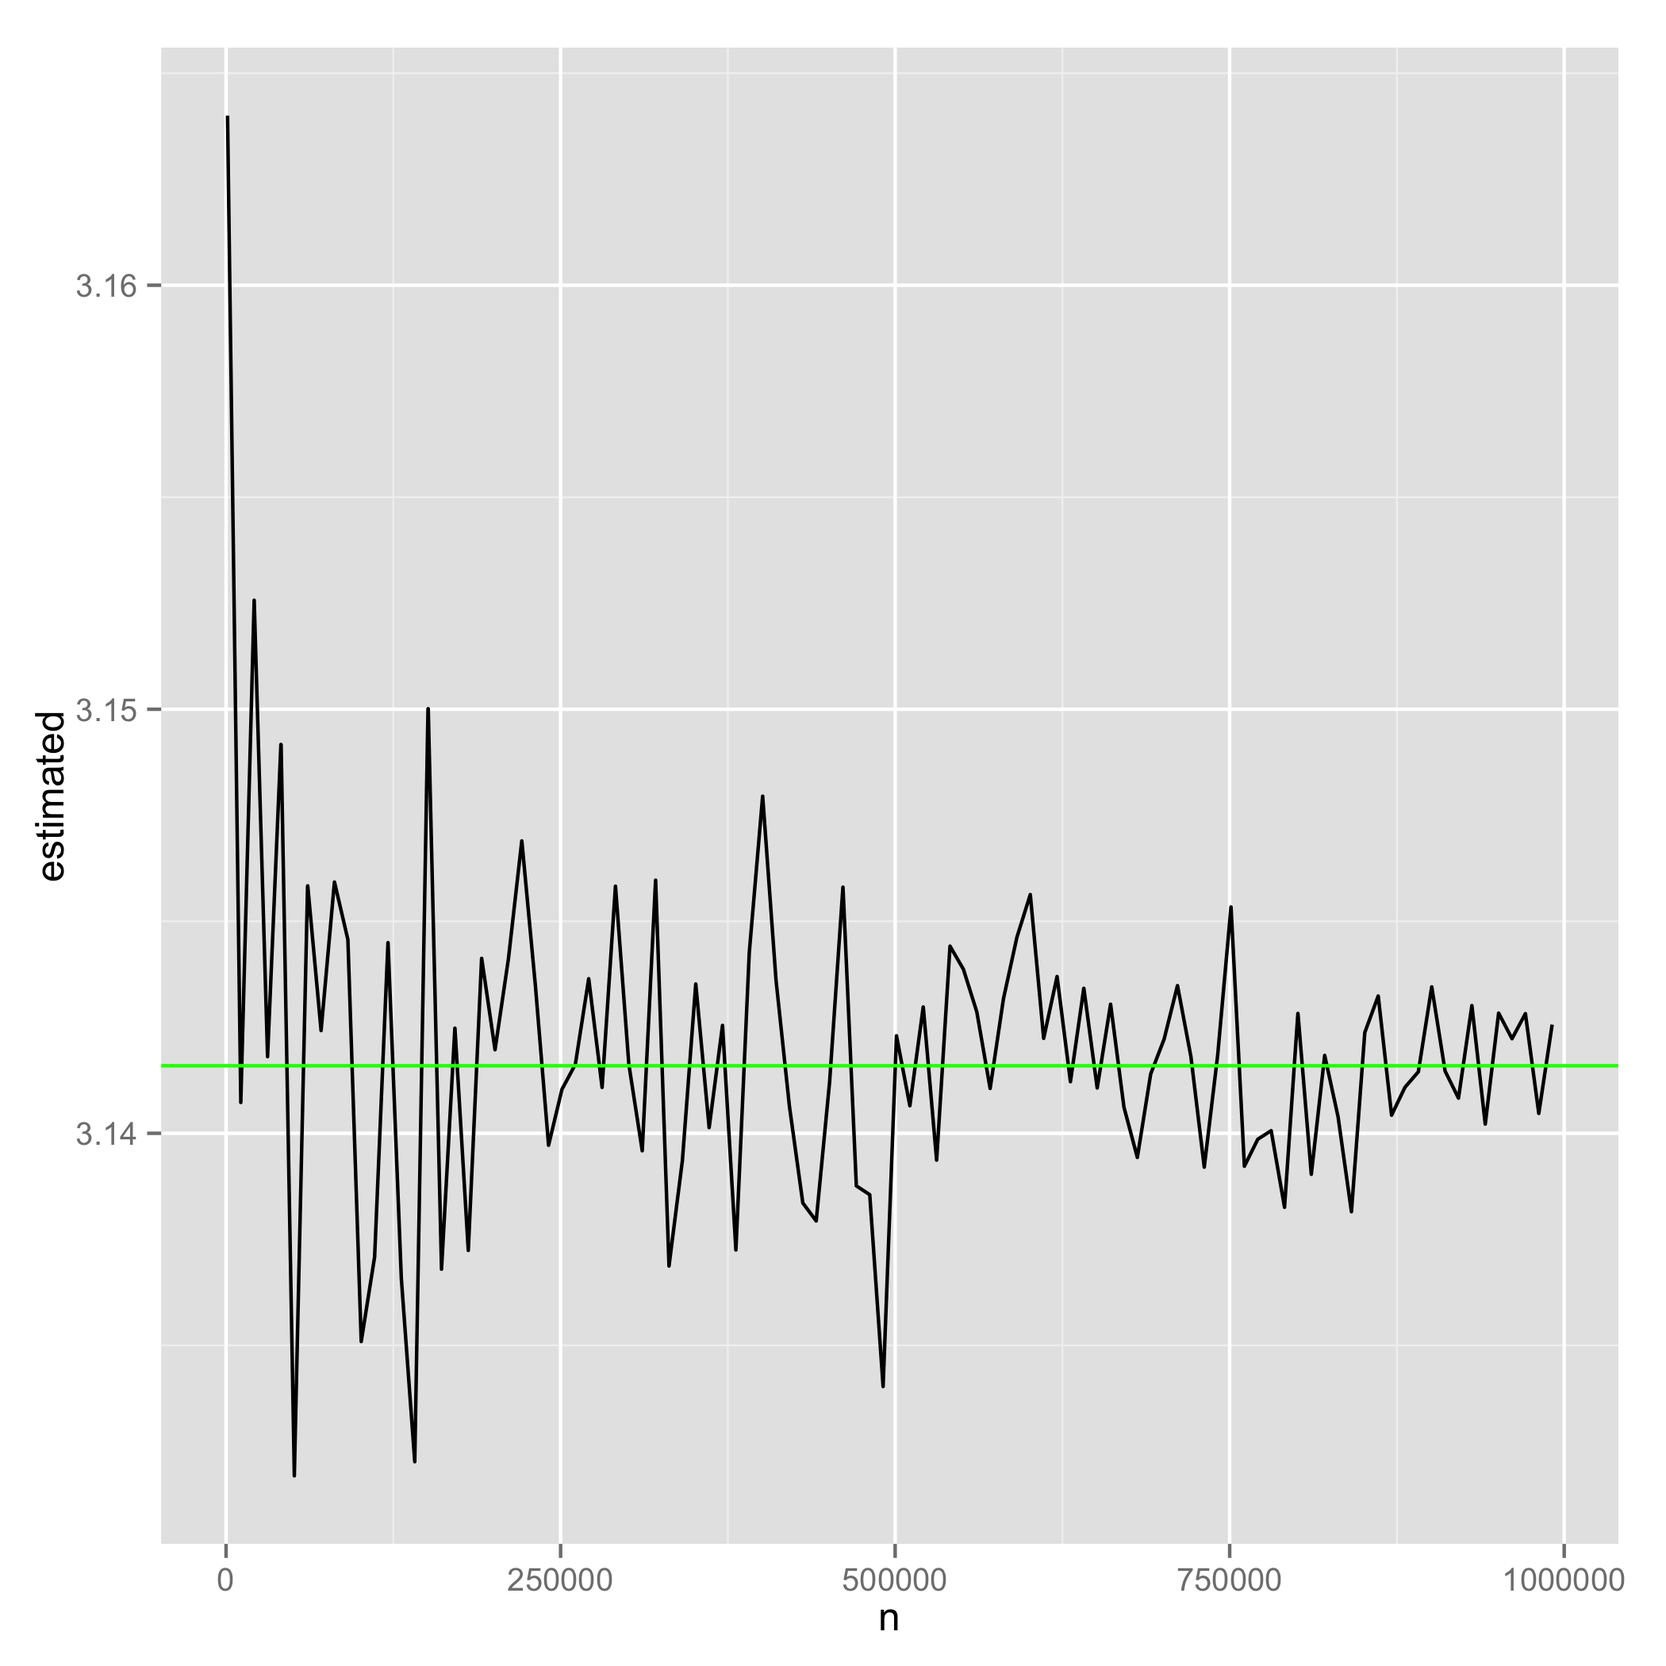
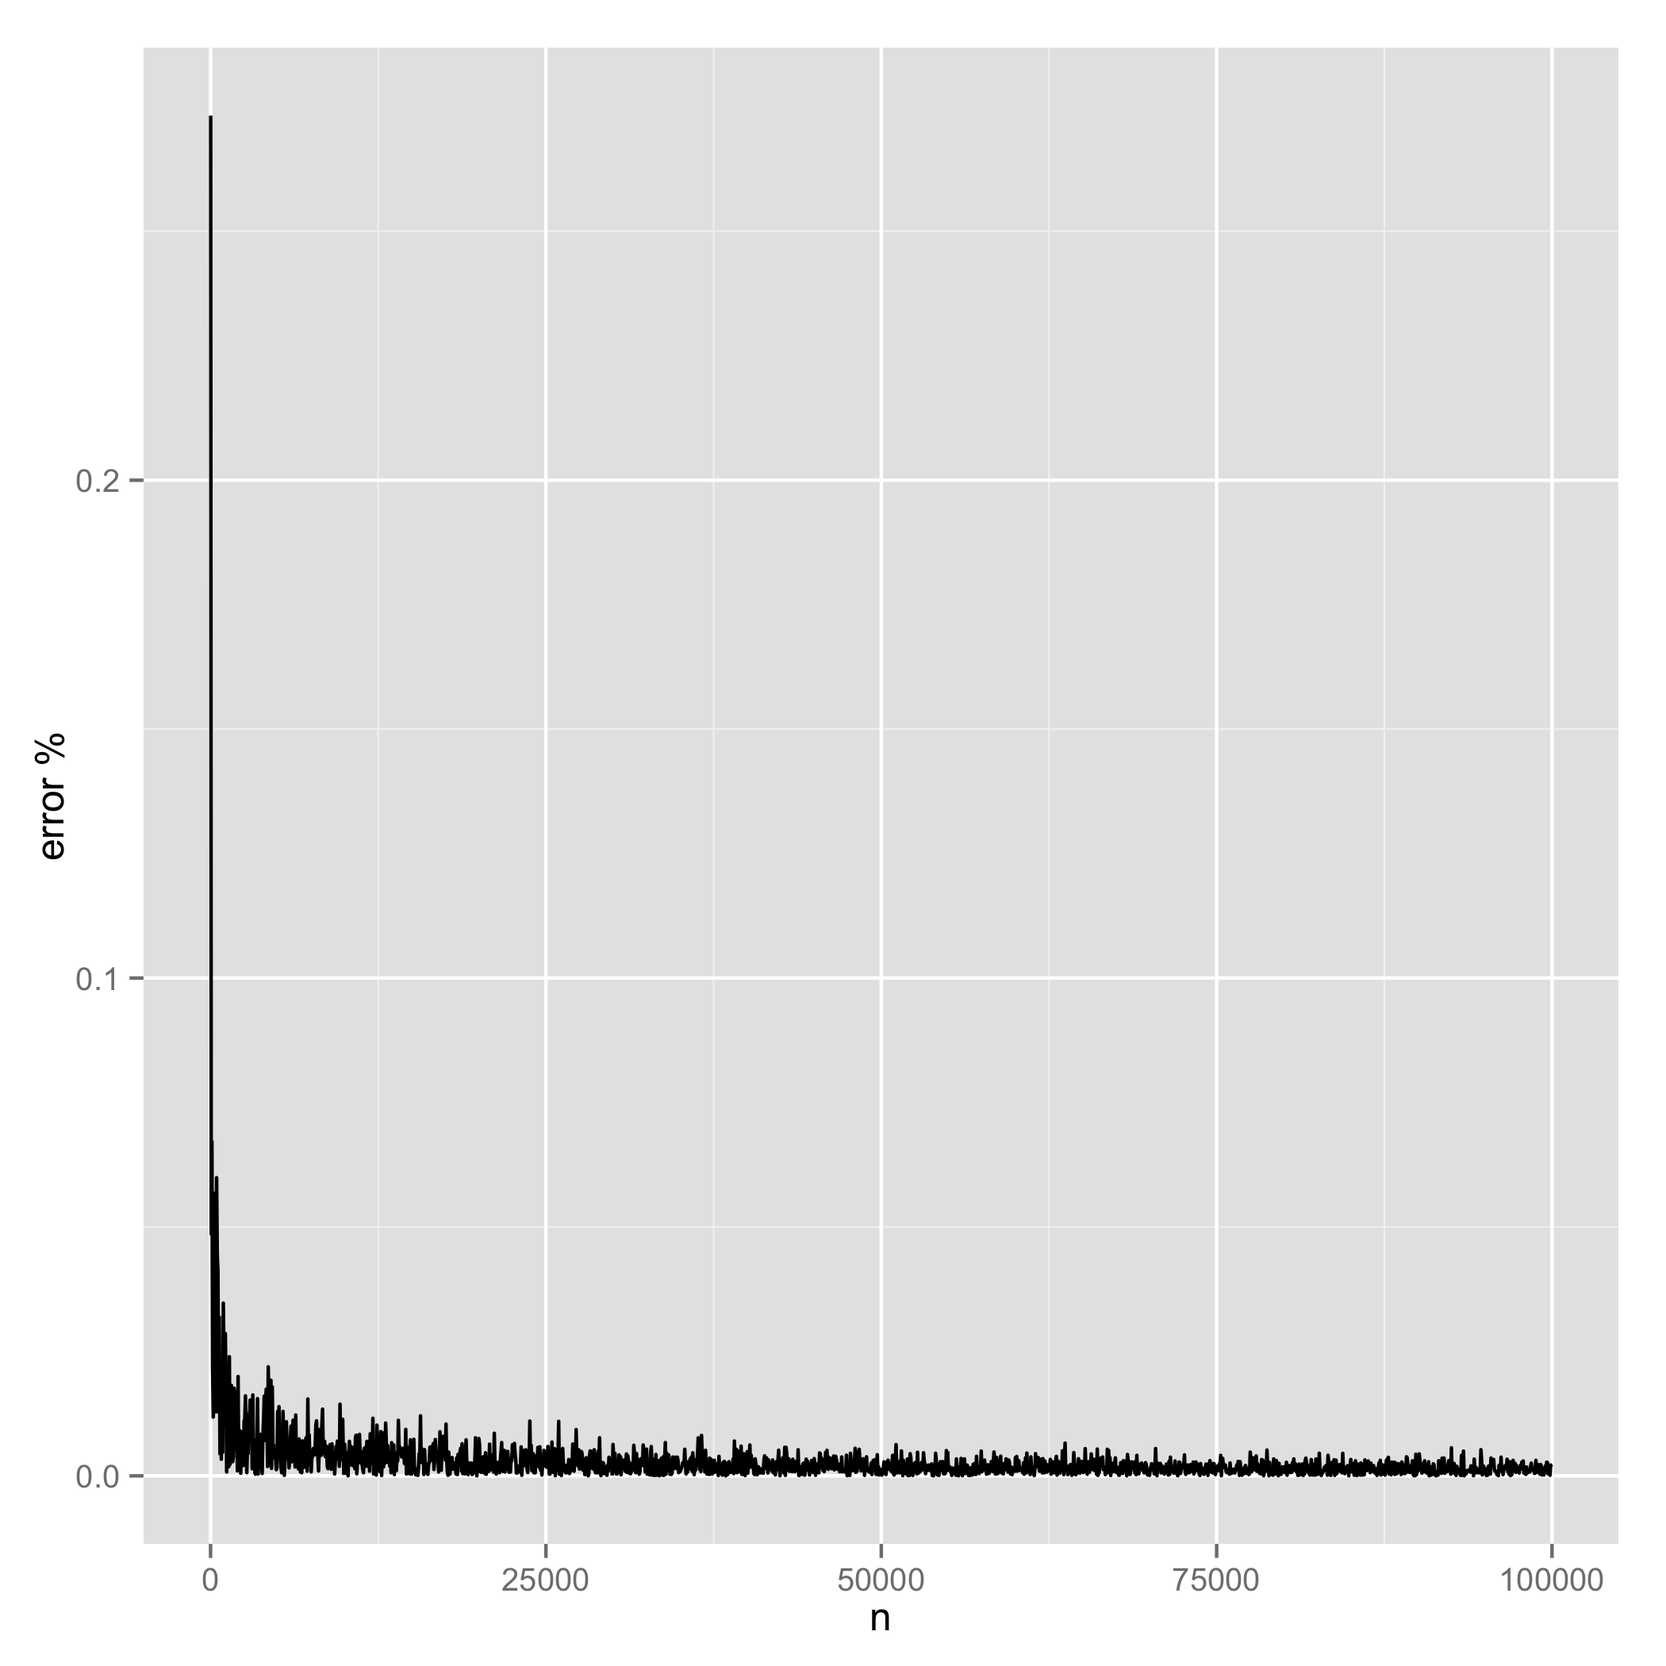
regenerate

Changed region(s): [[0.0, 0.031, 0.9905, 0.9905]]

diff --git a/public/blog/2014/03/29/a-simple-monte-carlo-experiment-in-r-more-pi/index.html b/public/blog/2014/03/29/a-simple-monte-carlo-experiment-in-r-more-pi/index.html
@@ -5,7 +5,7 @@
 <!--[if (gt IE 8)|(gt IEMobile 7)|!(IEMobile)|!(IE)]><!--><html class="no-js" lang="en"><!--<![endif]-->
 <head>
   <meta charset="utf-8">
-  <title>A Simple Monte Carlo Experiment in R: More Pi - Ben Poweski</title>
+  <title>A Simple Monte Carlo Experiment in R: More &#120587; - Ben Poweski</title>
   <meta name="author" content="Ben Poweski">
 
   
@@ -81,7 +81,7 @@ src="http://cdn.mathjax.org/mathjax/latest/MathJax.js?config=TeX-AMS-MML_HTMLorM
   
   <header>
     
-      <h1 class="entry-title">A Simple Monte Carlo Experiment in R: More Pi</h1>
+      <h1 class="entry-title">A Simple Monte Carlo Experiment in R: More &#120587;</h1>
     
     
       <p class="meta">
@@ -105,9 +105,9 @@ src="http://cdn.mathjax.org/mathjax/latest/MathJax.js?config=TeX-AMS-MML_HTMLorM
 
 
 <div class="entry-content"><p>Monte Carlo simulations (or Monte Carlo methods) are a simple but useful technique to derive a solution to a problem by randomly guessing possible inputs.  The definition is so broad that it&#8217;s likely you&#8217;ve used this technique without even realizing it.</p>
-<p>The hello world problem for Monte Carlo applications is undoubtedly calculating approximations of &piv;, albeit ineffeciently.</p>
+<p>The hello world problem for Monte Carlo applications is undoubtedly calculating approximations of &#120587;, albeit ineffeciently.</p>
 <h3>It&#8217;s Always About Darts</h3>
-<p>Before we can write software to do this we need to think about how to restate the question in probablistic terms.  &piv; is simply the ratio of a circle&#8217;s circumference to its diamater.</p>
+<p>Before we can write software to do this we need to think about how to restate the question in probablistic terms.  &#120587; is simply the ratio of a circle&#8217;s circumference to its diamater.</p>
 <blockquote>
 <p><script type="math/tex">\pi = \frac{C}{d}</script></p>
 </blockquote>
@@ -116,7 +116,7 @@ src="http://cdn.mathjax.org/mathjax/latest/MathJax.js?config=TeX-AMS-MML_HTMLorM
 <p><script type="math/tex">A_c = \pi r^2</script></p>
 </blockquote>
 <p>Suppose a circle was inscribed inside of a square.</p>
-<p><img src="/images/circle_in_square.png"></p>
+<p><img src="/images/circle_in_square.png" width="2100" height="2100"></p>
 <p>We could then define the area of the square in terms of the circle&#8217;s diameter:</p>
 <blockquote>
 <p><script type="math/tex">A_s = lw = dd = d^2</script></p>
@@ -138,7 +138,7 @@ src="http://cdn.mathjax.org/mathjax/latest/MathJax.js?config=TeX-AMS-MML_HTMLorM
 <blockquote>
 <p><script type="math/tex">\frac{\pi}{4} = \frac{A_c}{A_s}</script></p>
 </blockquote>
-<p>Now that we know a fourth of &piv;, we can limit our trial to one quadrant because the ratio still holds true.  This isn&#8217;t strictly nessecary but it simplies the program.</p>
+<p>Now that we know a fourth of &#120587;, we can limit our trial to one quadrant because the ratio still holds true.  This isn&#8217;t strictly nessecary but it simplies the program.</p>
 <p><div class='bogus-wrapper'><notextile><figure class='code'><div class="highlight"><table><tr><td class="gutter"><pre class="line-numbers"><span class='line-number'>1</span>
 <span class='line-number'>2</span>
 <span class='line-number'>3</span>
@@ -176,10 +176,10 @@ src="http://cdn.mathjax.org/mathjax/latest/MathJax.js?config=TeX-AMS-MML_HTMLorM
 <span class='line-number'>2</span>
 <span class='line-number'>3</span>
 <span class='line-number'>4</span>
-</pre></td><td class='code'><pre><code class=''><span class='line'>attempts &lt;- seq(1000, 1000000, by=10000)
-</span><span class='line'>estimated &lt;- sapply(attempts, function(x) calc.pi(make.pi(x)))
+</pre></td><td class='code'><pre><code class=''><span class='line'>attempts &lt;- seq(1, 100000, by=50)
+</span><span class='line'>estimated &lt;- sapply(attempts, function(x) abs(calc.pi(make.pi(x)) - pi)/pi)
 </span><span class='line'>
-</span><span class='line'>ggplot(data.frame(estimated=estimated, n=attempts)) + geom_line(aes(x=n, y=estimated)) + geom_hline(yintercept=pi, color="green")</span></code></pre></td></tr></table></div></figure></div></notextile></p>
+</span><span class='line'>ggplot(data.frame(estimated=estimated, n=attempts)) + geom_line(aes(x=n, y=estimated)) + ylab("error %")</span></code></pre></td></tr></table></div></figure></div></notextile></p>
 <p>And finally we can check how well this solution scales with different size trials.</p>
 <p><img src="/images/error.png"></p></div>
 
@@ -242,7 +242,7 @@ src="http://cdn.mathjax.org/mathjax/latest/MathJax.js?config=TeX-AMS-MML_HTMLorM
   <ul id="recent_posts">
     
       <li class="post">
-        <a href="/blog/2014/03/29/a-simple-monte-carlo-experiment-in-r-more-pi/">A Simple Monte Carlo Experiment in R: More Pi</a>
+        <a href="/blog/2014/03/29/a-simple-monte-carlo-experiment-in-r-more-pi/">A Simple Monte Carlo Experiment in R: More &#120587;</a>
       </li>
     
       <li class="post">

diff --git a/public/index.html b/public/index.html
@@ -84,7 +84,7 @@ src="http://cdn.mathjax.org/mathjax/latest/MathJax.js?config=TeX-AMS-MML_HTMLorM
       
   <header>
     
-      <h1 class="entry-title"><a href="/blog/2014/03/29/a-simple-monte-carlo-experiment-in-r-more-pi/">A Simple Monte Carlo Experiment in R: More Pi</a></h1>
+      <h1 class="entry-title"><a href="/blog/2014/03/29/a-simple-monte-carlo-experiment-in-r-more-pi/">A Simple Monte Carlo Experiment in R: More &#120587;</a></h1>
     
     
       <p class="meta">
@@ -108,9 +108,9 @@ src="http://cdn.mathjax.org/mathjax/latest/MathJax.js?config=TeX-AMS-MML_HTMLorM
 
 
   <div class="entry-content"><p>Monte Carlo simulations (or Monte Carlo methods) are a simple but useful technique to derive a solution to a problem by randomly guessing possible inputs.  The definition is so broad that it&#8217;s likely you&#8217;ve used this technique without even realizing it.</p>
-<p>The hello world problem for Monte Carlo applications is undoubtedly calculating approximations of &piv;, albeit ineffeciently.</p>
+<p>The hello world problem for Monte Carlo applications is undoubtedly calculating approximations of &#120587;, albeit ineffeciently.</p>
 <h3>It&#8217;s Always About Darts</h3>
-<p>Before we can write software to do this we need to think about how to restate the question in probablistic terms.  &piv; is simply the ratio of a circle&#8217;s circumference to its diamater.</p>
+<p>Before we can write software to do this we need to think about how to restate the question in probablistic terms.  &#120587; is simply the ratio of a circle&#8217;s circumference to its diamater.</p>
 <blockquote>
 <p><script type="math/tex">\pi = \frac{C}{d}</script></p>
 </blockquote>
@@ -119,7 +119,7 @@ src="http://cdn.mathjax.org/mathjax/latest/MathJax.js?config=TeX-AMS-MML_HTMLorM
 <p><script type="math/tex">A_c = \pi r^2</script></p>
 </blockquote>
 <p>Suppose a circle was inscribed inside of a square.</p>
-<p><img src="/images/circle_in_square.png"></p>
+<p><img src="/images/circle_in_square.png" width="2100" height="2100"></p>
 <p>We could then define the area of the square in terms of the circle&#8217;s diameter:</p>
 <blockquote>
 <p><script type="math/tex">A_s = lw = dd = d^2</script></p>
@@ -141,7 +141,7 @@ src="http://cdn.mathjax.org/mathjax/latest/MathJax.js?config=TeX-AMS-MML_HTMLorM
 <blockquote>
 <p><script type="math/tex">\frac{\pi}{4} = \frac{A_c}{A_s}</script></p>
 </blockquote>
-<p>Now that we know a fourth of &piv;, we can limit our trial to one quadrant because the ratio still holds true.  This isn&#8217;t strictly nessecary but it simplies the program.</p>
+<p>Now that we know a fourth of &#120587;, we can limit our trial to one quadrant because the ratio still holds true.  This isn&#8217;t strictly nessecary but it simplies the program.</p>
 <p><div class='bogus-wrapper'><notextile><figure class='code'><div class="highlight"><table><tr><td class="gutter"><pre class="line-numbers"><span class='line-number'>1</span>
 <span class='line-number'>2</span>
 <span class='line-number'>3</span>
@@ -179,10 +179,10 @@ src="http://cdn.mathjax.org/mathjax/latest/MathJax.js?config=TeX-AMS-MML_HTMLorM
 <span class='line-number'>2</span>
 <span class='line-number'>3</span>
 <span class='line-number'>4</span>
-</pre></td><td class='code'><pre><code class=''><span class='line'>attempts &lt;- seq(1000, 1000000, by=10000)
-</span><span class='line'>estimated &lt;- sapply(attempts, function(x) calc.pi(make.pi(x)))
+</pre></td><td class='code'><pre><code class=''><span class='line'>attempts &lt;- seq(1, 100000, by=50)
+</span><span class='line'>estimated &lt;- sapply(attempts, function(x) abs(calc.pi(make.pi(x)) - pi)/pi)
 </span><span class='line'>
-</span><span class='line'>ggplot(data.frame(estimated=estimated, n=attempts)) + geom_line(aes(x=n, y=estimated)) + geom_hline(yintercept=pi, color="green")</span></code></pre></td></tr></table></div></figure></div></notextile></p>
+</span><span class='line'>ggplot(data.frame(estimated=estimated, n=attempts)) + geom_line(aes(x=n, y=estimated)) + ylab("error %")</span></code></pre></td></tr></table></div></figure></div></notextile></p>
 <p>And finally we can check how well this solution scales with different size trials.</p>
 <p><img src="/images/error.png"></p></div>
   
@@ -1142,7 +1142,7 @@ src="http://cdn.mathjax.org/mathjax/latest/MathJax.js?config=TeX-AMS-MML_HTMLorM
   <ul id="recent_posts">
     
       <li class="post">
-        <a href="/blog/2014/03/29/a-simple-monte-carlo-experiment-in-r-more-pi/">A Simple Monte Carlo Experiment in R: More Pi</a>
+        <a href="/blog/2014/03/29/a-simple-monte-carlo-experiment-in-r-more-pi/">A Simple Monte Carlo Experiment in R: More &#120587;</a>
       </li>
     
       <li class="post">

diff --git a/public/blog/archives/index.html b/public/blog/archives/index.html
@@ -9,7 +9,7 @@
   <meta name="author" content="Ben Poweski">
 
   
-  <meta name="description" content="Blog Archive 2014 A Simple Monte Carlo Experiment in R: More Pi
+  <meta name="description" content="Blog Archive 2014 A Simple Monte Carlo Experiment in R: More &#120587;
 Mar 29 2014 2013 Using New Relic with Clojure
 Jun 15 2013 2009 Apple Push &hellip;">
   
@@ -95,7 +95,7 @@ src="http://cdn.mathjax.org/mathjax/latest/MathJax.js?config=TeX-AMS-MML_HTMLorM
 
 <article>
   
-<h1><a href="/blog/2014/03/29/a-simple-monte-carlo-experiment-in-r-more-pi/">A Simple Monte Carlo Experiment in R: More Pi</a></h1>
+<h1><a href="/blog/2014/03/29/a-simple-monte-carlo-experiment-in-r-more-pi/">A Simple Monte Carlo Experiment in R: More &#120587;</a></h1>
 <time datetime="2014-03-29T17:03:00-05:00" pubdate><span class='month'>Mar</span> <span class='day'>29</span> <span class='year'>2014</span></time>
 
 
@@ -196,7 +196,7 @@ src="http://cdn.mathjax.org/mathjax/latest/MathJax.js?config=TeX-AMS-MML_HTMLorM
   <ul id="recent_posts">
     
       <li class="post">
-        <a href="/blog/2014/03/29/a-simple-monte-carlo-experiment-in-r-more-pi/">A Simple Monte Carlo Experiment in R: More Pi</a>
+        <a href="/blog/2014/03/29/a-simple-monte-carlo-experiment-in-r-more-pi/">A Simple Monte Carlo Experiment in R: More &#120587;</a>
       </li>
     
       <li class="post">

diff --git a/public/blog/2013/06/15/using-new-relic-with-clojure/index.html b/public/blog/2013/06/15/using-new-relic-with-clojure/index.html
@@ -227,7 +227,7 @@ src="http://cdn.mathjax.org/mathjax/latest/MathJax.js?config=TeX-AMS-MML_HTMLorM
         <a class="basic-alignment left" href="/blog/2009/09/17/apple-push-notifications-toolkit-for-ruby/" title="Previous Post: Apple Push Notifications Toolkit for Ruby">&laquo; Apple Push Notifications Toolkit for Ruby</a>
       
       
-        <a class="basic-alignment right" href="/blog/2014/03/29/a-simple-monte-carlo-experiment-in-r-more-pi/" title="Next Post: A Simple Monte Carlo Experiment in R: More Pi">A Simple Monte Carlo Experiment in R: More Pi &raquo;</a>
+        <a class="basic-alignment right" href="/blog/2014/03/29/a-simple-monte-carlo-experiment-in-r-more-pi/" title="Next Post: A Simple Monte Carlo Experiment in R: More &#120587;">A Simple Monte Carlo Experiment in R: More &#120587; &raquo;</a>
       
     </p>
   </footer>
@@ -248,7 +248,7 @@ src="http://cdn.mathjax.org/mathjax/latest/MathJax.js?config=TeX-AMS-MML_HTMLorM
   <ul id="recent_posts">
     
       <li class="post">
-        <a href="/blog/2014/03/29/a-simple-monte-carlo-experiment-in-r-more-pi/">A Simple Monte Carlo Experiment in R: More Pi</a>
+        <a href="/blog/2014/03/29/a-simple-monte-carlo-experiment-in-r-more-pi/">A Simple Monte Carlo Experiment in R: More &#120587;</a>
       </li>
     
       <li class="post">

diff --git a/public/blog/2008/02/22/compiling-erlang-applications-with-rake/index.html b/public/blog/2008/02/22/compiling-erlang-applications-with-rake/index.html
@@ -229,7 +229,7 @@ src="http://cdn.mathjax.org/mathjax/latest/MathJax.js?config=TeX-AMS-MML_HTMLorM
   <ul id="recent_posts">
     
       <li class="post">
-        <a href="/blog/2014/03/29/a-simple-monte-carlo-experiment-in-r-more-pi/">A Simple Monte Carlo Experiment in R: More Pi</a>
+        <a href="/blog/2014/03/29/a-simple-monte-carlo-experiment-in-r-more-pi/">A Simple Monte Carlo Experiment in R: More &#120587;</a>
       </li>
     
       <li class="post">

diff --git a/public/blog/2008/04/28/securing-data-wtih-openssl-and-ruby/index.html b/public/blog/2008/04/28/securing-data-wtih-openssl-and-ruby/index.html
@@ -216,7 +216,7 @@ src="http://cdn.mathjax.org/mathjax/latest/MathJax.js?config=TeX-AMS-MML_HTMLorM
   <ul id="recent_posts">
     
       <li class="post">
-        <a href="/blog/2014/03/29/a-simple-monte-carlo-experiment-in-r-more-pi/">A Simple Monte Carlo Experiment in R: More Pi</a>
+        <a href="/blog/2014/03/29/a-simple-monte-carlo-experiment-in-r-more-pi/">A Simple Monte Carlo Experiment in R: More &#120587;</a>
       </li>
     
       <li class="post">

diff --git a/public/blog/2008/05/23/parsing-css-with-antlr/index.html b/public/blog/2008/05/23/parsing-css-with-antlr/index.html
@@ -661,7 +661,7 @@ src="http://cdn.mathjax.org/mathjax/latest/MathJax.js?config=TeX-AMS-MML_HTMLorM
   <ul id="recent_posts">
     
       <li class="post">
-        <a href="/blog/2014/03/29/a-simple-monte-carlo-experiment-in-r-more-pi/">A Simple Monte Carlo Experiment in R: More Pi</a>
+        <a href="/blog/2014/03/29/a-simple-monte-carlo-experiment-in-r-more-pi/">A Simple Monte Carlo Experiment in R: More &#120587;</a>
       </li>
     
       <li class="post">

diff --git a/public/blog/2008/12/27/remove-bevel-and-gloss-effect-from-iphone-icon/index.html b/public/blog/2008/12/27/remove-bevel-and-gloss-effect-from-iphone-icon/index.html
@@ -177,7 +177,7 @@ src="http://cdn.mathjax.org/mathjax/latest/MathJax.js?config=TeX-AMS-MML_HTMLorM
   <ul id="recent_posts">
     
       <li class="post">
-        <a href="/blog/2014/03/29/a-simple-monte-carlo-experiment-in-r-more-pi/">A Simple Monte Carlo Experiment in R: More Pi</a>
+        <a href="/blog/2014/03/29/a-simple-monte-carlo-experiment-in-r-more-pi/">A Simple Monte Carlo Experiment in R: More &#120587;</a>
       </li>
     
       <li class="post">

diff --git a/public/blog/2009/09/17/apple-push-notifications-toolkit-for-ruby/index.html b/public/blog/2009/09/17/apple-push-notifications-toolkit-for-ruby/index.html
@@ -216,7 +216,7 @@ src="http://cdn.mathjax.org/mathjax/latest/MathJax.js?config=TeX-AMS-MML_HTMLorM
   <ul id="recent_posts">
     
       <li class="post">
-        <a href="/blog/2014/03/29/a-simple-monte-carlo-experiment-in-r-more-pi/">A Simple Monte Carlo Experiment in R: More Pi</a>
+        <a href="/blog/2014/03/29/a-simple-monte-carlo-experiment-in-r-more-pi/">A Simple Monte Carlo Experiment in R: More &#120587;</a>
       </li>
     
       <li class="post">

diff --git a/public/blog/categories/ios/index.html b/public/blog/categories/ios/index.html
@@ -117,7 +117,7 @@ src="http://cdn.mathjax.org/mathjax/latest/MathJax.js?config=TeX-AMS-MML_HTMLorM
   <ul id="recent_posts">
     
       <li class="post">
-        <a href="/blog/2014/03/29/a-simple-monte-carlo-experiment-in-r-more-pi/">A Simple Monte Carlo Experiment in R: More Pi</a>
+        <a href="/blog/2014/03/29/a-simple-monte-carlo-experiment-in-r-more-pi/">A Simple Monte Carlo Experiment in R: More &#120587;</a>
       </li>
     
       <li class="post">

diff --git a/public/blog/categories/objective-c/index.html b/public/blog/categories/objective-c/index.html
@@ -117,7 +117,7 @@ src="http://cdn.mathjax.org/mathjax/latest/MathJax.js?config=TeX-AMS-MML_HTMLorM
   <ul id="recent_posts">
     
       <li class="post">
-        <a href="/blog/2014/03/29/a-simple-monte-carlo-experiment-in-r-more-pi/">A Simple Monte Carlo Experiment in R: More Pi</a>
+        <a href="/blog/2014/03/29/a-simple-monte-carlo-experiment-in-r-more-pi/">A Simple Monte Carlo Experiment in R: More &#120587;</a>
       </li>
     
       <li class="post">

diff --git a/public/blog/categories/ruby/index.html b/public/blog/categories/ruby/index.html
@@ -134,7 +134,7 @@ src="http://cdn.mathjax.org/mathjax/latest/MathJax.js?config=TeX-AMS-MML_HTMLorM
   <ul id="recent_posts">
     
       <li class="post">
-        <a href="/blog/2014/03/29/a-simple-monte-carlo-experiment-in-r-more-pi/">A Simple Monte Carlo Experiment in R: More Pi</a>
+        <a href="/blog/2014/03/29/a-simple-monte-carlo-experiment-in-r-more-pi/">A Simple Monte Carlo Experiment in R: More &#120587;</a>
       </li>
     
       <li class="post">
